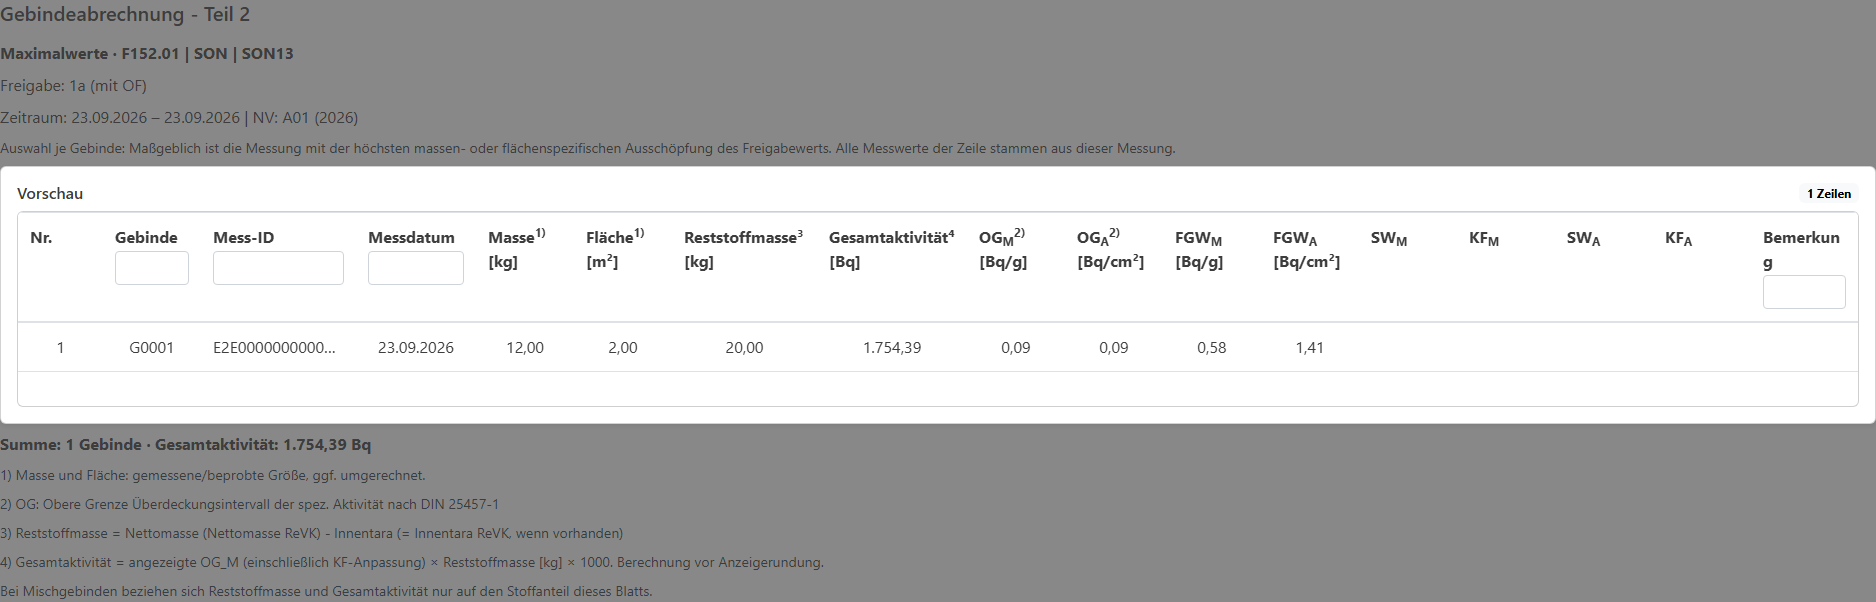
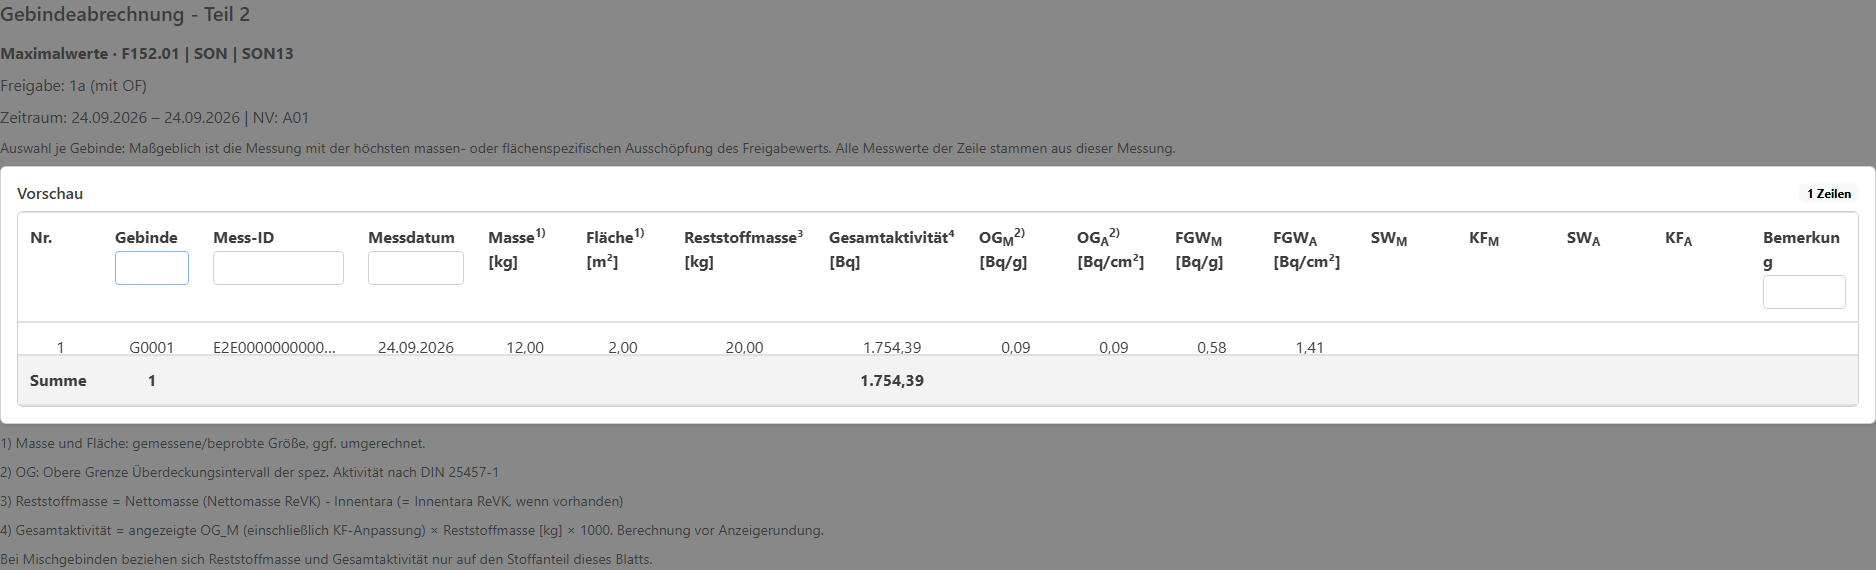
docs: sync from fmblog 49aef892

diff --git a/docs/user-guide/reports.md b/docs/user-guide/reports.md
@@ -17,6 +17,8 @@ Einbezogen werden **alle aktuellen gültigen Messrevisionen** der ausgewählten 
 
 ## Blattaufteilung und Kopfzeilen
 
+Im PDF stehen Logo, mittiger Titelblock und Angaben zu Datum/Prüfung/Seite nebeneinander mit gemeinsamem oberen Abstand. Die Fingerprints stehen im rechten Fußbereich untereinander unmittelbar links vom QR-Code; die Fußnoten stehen links.
+
 Die Hauptüberschriften lauten **Gebindeabrechnung - Teil 1** und **Gebindeabrechnung - Teil 2**, ohne Datum im Titel. Darunter steht jeweils **Details** beziehungsweise **Maximalwerte**. Das Erstellungsdatum bleibt im bisherigen Kopfzeilenblock neben „Geprüft“ und der durchgängigen Seitennummerierung.
 
 Die Blätter werden nach FMK, Charge und Freigabepfad aufgeteilt. **SON und NEM werden zusätzlich nach Stoffklasse getrennt.** Beispiele:
@@ -53,6 +55,8 @@ Verwendet werden die bereits um KF beziehungsweise SW angepassten, ungerundeten 
 
 Der Untertitel nennt den Zeitraum vom frühesten bis zum spätesten enthaltenen Messdatum sowie die verwendeten Nuklidvektoren mit Jahresversion. Der Zeitraum umfasst **alle Messungen des Abschnitts**, nicht nur die ausgewählten Maximalwertmessungen.
 
+Die NV-Angabe im Untertitel von Teil 2 nennt nur die Namen (zum Beispiel `NV: A01`), ohne Jahreszusatz. Mehrere Jahresversionen desselben NV werden einmal aufgeführt. Der Messzeitraum enthält weiterhin vollständige Datumsangaben; die tatsächlichen NV-Jahresversionen bleiben in den gespeicherten Daten nachvollziehbar.
+
 ### Reststoffmasse und Gesamtaktivität
 
 Die gespeicherten Stoffklassenmassen sind bereits Reststoffmassen nach Abzug der Innentara. Pro Blatt werden nur die zugehörigen Stoffklassenmassen summiert. Es erfolgt kein weiterer Taraabzug und es werden keine zusätzlichen ReVK-Felder benötigt.
@@ -67,7 +71,7 @@ $$
 A_{\mathrm{Gebindeanteil}}[\mathrm{Bq}] = OG_M[\mathrm{Bq/g}] \cdot m_{\mathrm{Reststoffanteil}}[\mathrm{kg}] \cdot 1000
 $$
 
-Die Zeile am Abschnittsende summiert **Gebindeanzahl und Gesamtaktivität**. Die Aktivitätssumme wird aus ungerundeten Zahlen gebildet. Masse und Fläche der ausgewählten Messung bleiben zusätzlich sichtbar und sind von der Reststoffmasse zu unterscheiden.
+Die Zeile am Abschnittsende zeigt **Summe** links, die **Gebindeanzahl** in der Gebindespalte und die **Gesamtaktivität** in ihrer eigenen Spalte. In der Vorschau bleiben diese Abschnittssummen auch bei aktiven Tabellenfiltern erhalten. Die Aktivitätssumme wird aus ungerundeten Zahlen gebildet. Masse und Fläche der ausgewählten Messung bleiben zusätzlich sichtbar und sind von der Reststoffmasse zu unterscheiden.
 
 ### Beispiel einer Mischgebindeabrechnung
 

diff --git a/docs/architecture/adr-005-gebindeabrechnung.md b/docs/architecture/adr-005-gebindeabrechnung.md
@@ -42,3 +42,12 @@ Neue Berichte können mehr Seiten enthalten, weil dieselbe Messung für verschie
 Regressionstests prüfen Auswahl nach beiden Einheiten, deterministische Gleichstände, anteilige Massen/Aktivitäten, SON-/NEM-Aufteilung, fehlende Werte, eindeutige Exportverknüpfungen und Snapshot-Kompatibilität. PDF-Prüfungen lesen tatsächlich gerenderte Textströme; mehrseitige Layouts werden zusätzlich visuell kontrolliert.
 
 Die Bedienung und ein Zahlenbeispiel stehen in der [Benutzeranleitung](../user-guide/reports.md).
+
+## Layoutpräzisierung
+
+- Der PDF-Kopf verwendet drei Bereiche mit gemeinsamem oberen Abstand: Logo links, Titel mittig auf dem Blatt, Datum/Prüfung/Seite rechts. Die Logogröße ist proportional begrenzt; Tabellenbeginn und Seitenumbruch berücksichtigen die tatsächlichen Kopf- und Fußhöhen.
+- Der Auswahlhinweis in Teil 2 steht über die gesamte Tabellenbreite unter dem Kopfblock. Das hält die Überschriften kompakt und den Hinweis lesbar.
+- NV-Namen erscheinen in Teil 2 ohne Jahreszusatz und ohne Wiederholung desselben Namens. Jahresversionen bleiben in den gespeicherten Grundlagen erhalten; die jahresbezogene Prüfung und der Messzeitraum ändern sich nicht.
+- Die Summenzeile ordnet „Summe“, Gebindeanzahl und Aktivität der ersten, der Gebinde- und der Gesamtaktivitätsspalte zu. Die Vorschau nutzt dieselben Abschnittssummen, auch bei aktiven Tabellenfiltern; Teil 1 enthält weiterhin keine Summenzeile.
+- Fingerprints stehen untereinander rechtsbündig unmittelbar links vom QR-Code. Fußnoten bleiben links in einem eigenen Bereich. Ohne QR-Code bleiben die Fingerprints am rechten Seitenrand.
+- Diese Änderungen betreffen die Darstellung neuer Exporte, benötigen weder Migration noch neue Snapshot-Version und ändern keine gespeicherten Original-PDFs.
